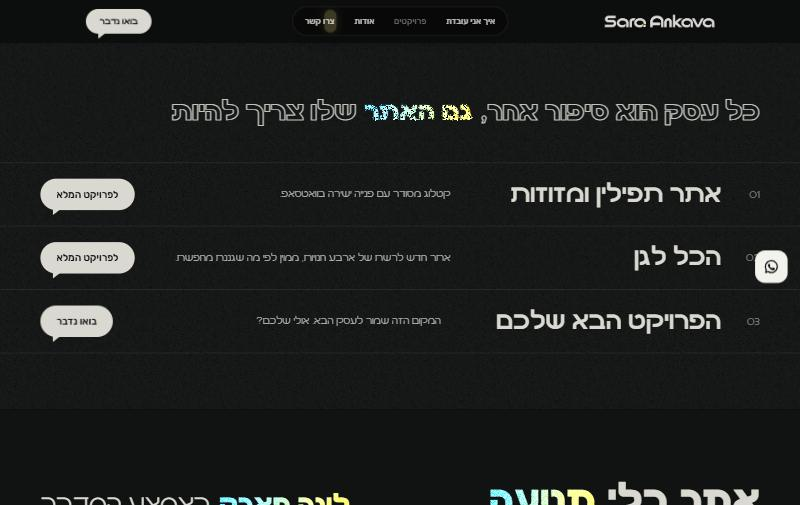
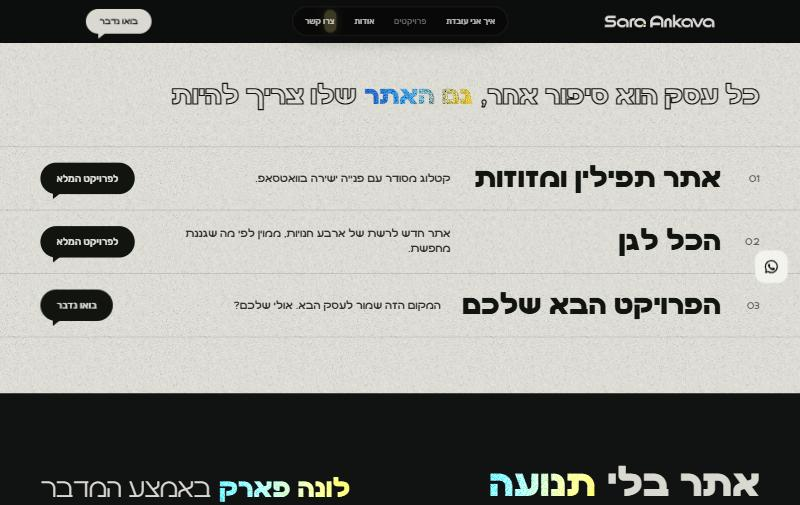
v6 projects: light grainy stone, charcoal text, thicker rows, blue-to-gold gradient

diff --git a/versions/v6/assets/css/v6.css b/versions/v6/assets/css/v6.css
@@ -550,3 +550,21 @@ body::before,body::after{display:none!important}
 @keyframes cta-blink{0%,84%,100%{transform:none;filter:none}90%{transform:scale(1.05);filter:brightness(1.12)}95%{transform:scale(1.02);filter:brightness(1.05)}}
 .cta6,.cta-blink,.contact .btn--primary,.h6__btn{animation:cta-blink 6s ease-in-out infinite}
 @media (prefers-reduced-motion:reduce){.cta6,.cta-blink,.contact .btn--primary,.h6__btn{animation:none}}
+
+/* ===== פרויקטים · אבן בהירה גרגרית, טקסט פחם, שורות עבות, גרדיאנט חד ב"גם האתר" ===== */
+.pj{background:#E7E6DF;color:#12140f}
+.pj::before{mix-blend-mode:multiply;opacity:.2;background-size:170px}
+.pj__st{color:transparent;-webkit-text-stroke:1.4px #12140f}
+.pj__gr.gr-text{background-image:var(--v6-n),linear-gradient(100deg,#1B4FB0 0%,#2F7FD0 38%,#D19A00 100%);background-size:200px,auto;background-blend-mode:soft-light,normal;filter:none;-webkit-text-fill-color:transparent;font-weight:700}
+.pj__row{border-top:1px solid rgb(18 20 15 / .2)}
+.pj__row:last-child{border-bottom:1px solid rgb(18 20 15 / .2)}
+.pj__n{color:rgb(18 20 15 / .6);font-weight:500}
+.pj__row .pj__t{font-weight:700;font-size:clamp(28px,3.4vw,48px);color:#12140f}
+.pj__d{font-weight:500;font-size:clamp(16px,1.35vw,19px);color:rgb(18 20 15 / .85)}
+.pj .btn,.pj .btn--primary{background:#12140f!important;color:#E7E6DF!important}
+.pj .btn:hover{background:#2a2d26!important}
+.pj__float .mk__win{box-shadow:0 18px 40px -14px rgb(18 20 15 / .45)}
+.pj__gr.gr-text{background-image:var(--v6-n),linear-gradient(100deg,#123F9E 0%,#1F6FD0 40%,#E0A100 100%);background-blend-mode:soft-light,normal;background-size:240px,auto}
+.pj__st{-webkit-text-stroke-width:1.6px}
+.pj__gr.gr-text{background-blend-mode:overlay,normal}
+.pj__st{-webkit-text-stroke-width:2.1px;paint-order:stroke fill}

diff --git a/versions/v6/index.html b/versions/v6/index.html
@@ -18,7 +18,7 @@
 <link rel="preload" href="assets/fonts/SaraAnkava-Bold-v1.2.woff2" as="font" type="font/woff2" crossorigin>
 <link rel="stylesheet" href="assets/css/style.css?v=6">
 <link rel="stylesheet" href="assets/css/v4.css?v=4">
-<link rel="stylesheet" href="assets/css/v6.css?v=69">
+<link rel="stylesheet" href="assets/css/v6.css?v=72">
 <meta name="robots" content="noindex">
 <script>document.documentElement.classList.add('js');setTimeout(function(){if(!window.__saReady)document.documentElement.classList.remove('js')},3000)</script>
 <script type="application/ld+json">
